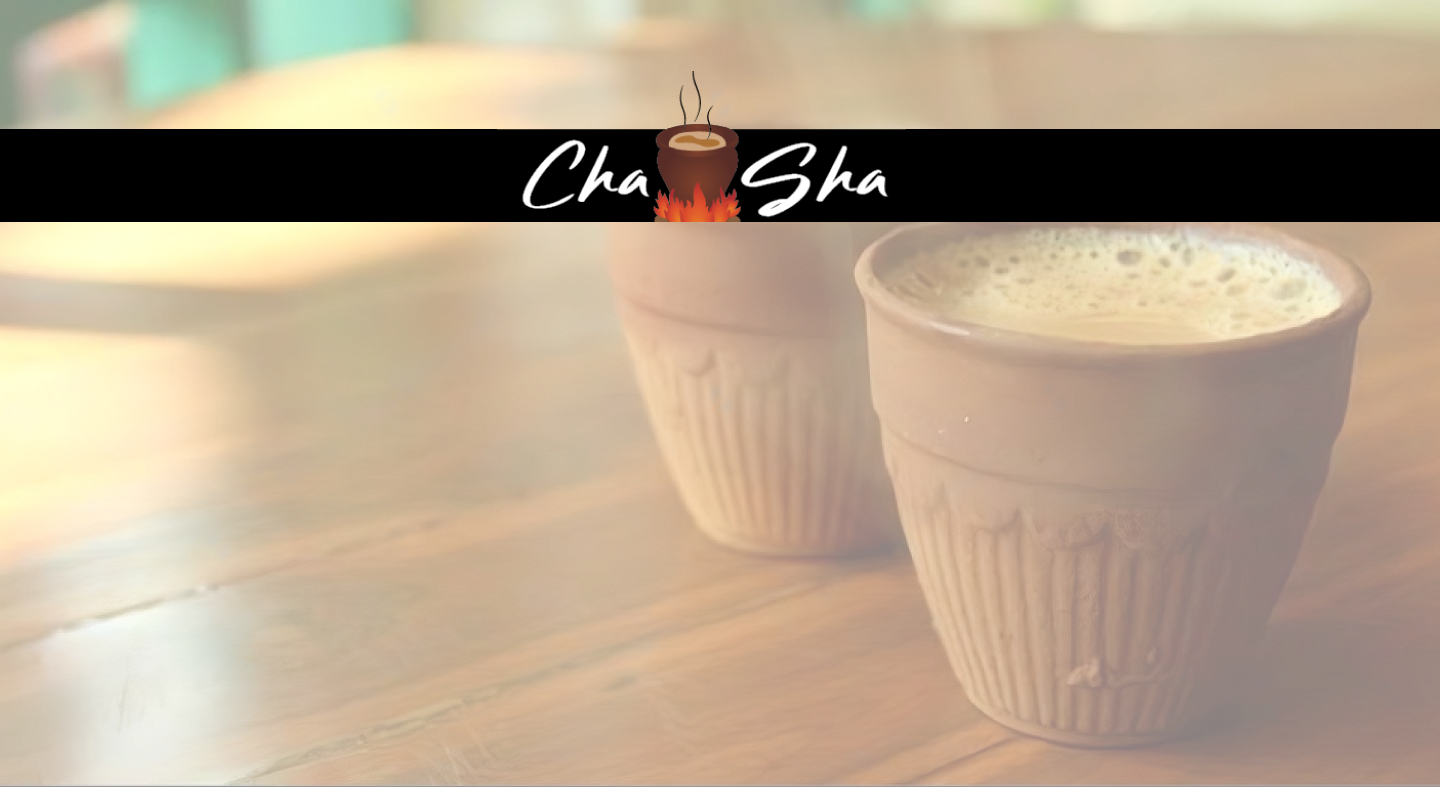
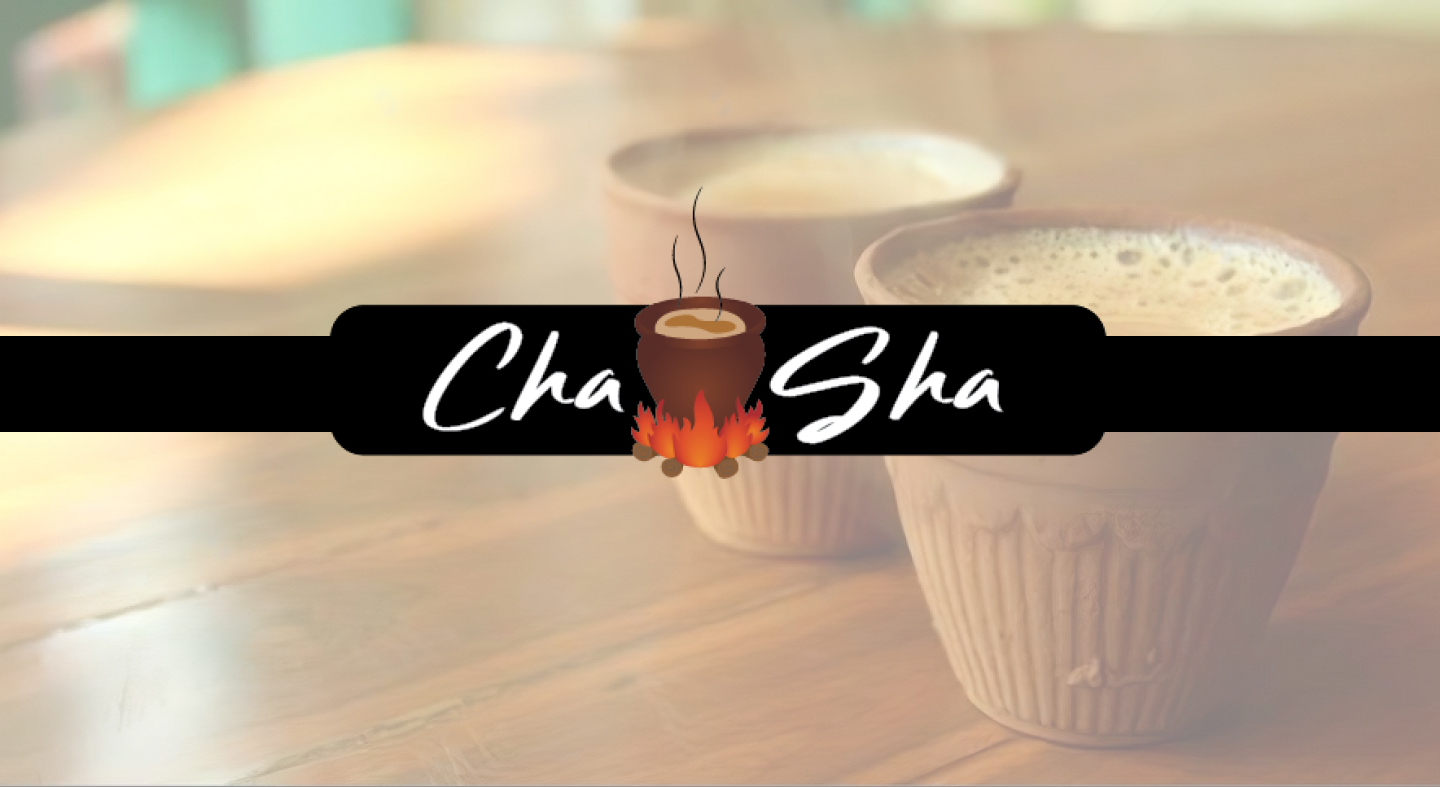
A: update design for home section

Changed region(s): [[0.0, 0.3355, 1.0, 0.6099], [0.0, 0.122, 1.0, 0.305]]

diff --git a/index.html b/index.html
@@ -11,14 +11,12 @@
 </head>
 
 <body>
-    <nav class="navbar navbar-light bg-light position-fixed w-100">
+    <nav class="navbar position-absolute w-100">
         <div class="container-fluid">
             <a class="navbar-brand" href="#">
 
             </a>
-            <button id="nav-btn-options" class="zoomLgEffect bg-light" type="button" aria-label="Toggle navigation">
-                <span class="navbar-toggler-icon" onclick="openNav()"></span>
-            </button>
+            <span id="menuIcon" class="navbar-dark navbar-toggler-icon" onclick="openNav()"></span>
         </div>
     </nav>
     <div id="navSupportContent" class="custom-nav-bar bg-dark">

diff --git a/style.css b/style.css
@@ -45,6 +45,13 @@ ul.navbar-nav.me-auto.m-5 {
 button#nav-btn-options {
     border: none;
 }
+.custom-toggler.navbar-toggler {
+    border-color: rgb(255,102,203);
+} 
+#menuIcon{
+    width: 50px;
+    height: 50px;
+}
 button.navbar-toggler {
     border: none;
 }
@@ -112,4 +119,8 @@ button.navbar-toggler {
 @media screen and (max-height: 450px) {
     .custom-nav-bar {padding-top: 15px;}
     .custom-nav-bar a {font-size: 18px;}
+    
 }
+@media only screen and (max-width: 600px) {
+    #landingPage  {height: 63vh;}
+  }
